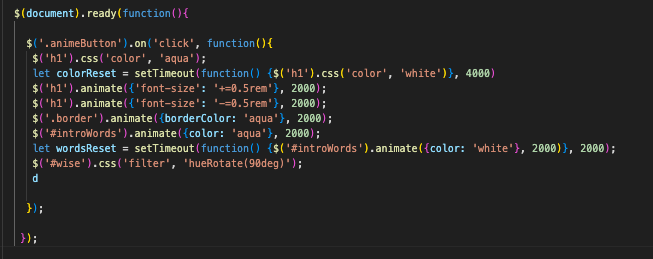
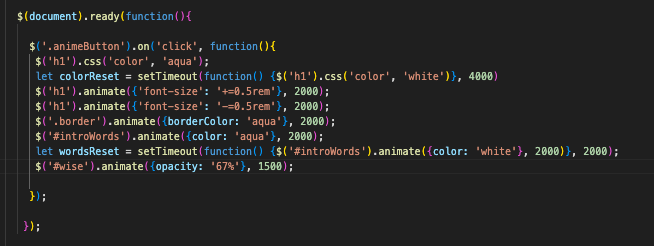
Add files via upload

Changed region(s): [[0.0, 0.0285, 0.9495, 0.9675]]

diff --git a/simpleMobile.html b/simpleMobile.html
@@ -27,9 +27,8 @@
        $('.border').animate({borderColor: 'aqua'}, 2000);
        $('#introWords').animate({color: 'aqua'}, 2000);
        let wordsReset = setTimeout(function() {$('#introWords').animate({color: 'white'}, 2000)}, 2000);
-       $('#wise').css('filter', 'hueRotate(90deg)');
+       $('#wise').animate({opacity: '67%'}, 1500);
        
-      
       });
 
      });
@@ -42,7 +41,10 @@
 
    <header>
       <h1 class="border">HTML / CSS / JQuery</h1>
-      <img src="daFotiJpeg-5-2.jpg" class='border' id='wise' alt="Wise Reflection">
+      <div id="wiseContainer">
+        <img src="daFotiJpeg-5-2.jpg" class='border' id='wise' alt="Wise Reflection">
+      </div>
+      
    </header>
 
    

diff --git a/mobilAppHeader.html b/mobilAppHeader.html
@@ -1,0 +1,13 @@
+<!DOCTYPE html>
+   <html lang="en">
+      <head>
+         <meta charset="utf-8">
+         <title>HTML/CSS JS JQuery</title>
+         <meta name="CIS-128" content="Assignment 2">
+         <meta name="viewport" content="width=device-width, initial-scale=1.0">
+         <link rel="stylesheet" href="">
+      </head> 
+   <body>
+      …content to be displayed in the browser…
+   </body>
+</html>

diff --git a/simple.css b/simple.css
@@ -31,7 +31,6 @@ h1 {
 }
 
 #intro {
-  /* border: 1px solid white; */
   padding: 10px;
 }
 
@@ -50,8 +49,12 @@ img {
   box-shadow: 0px 0px 20px 1px;
 }
 
-#wise {
+div#wiseContainer {
   background-color: aqua;
+}
+
+#wise {
+  opacity: 100%;
 }
 
 #introImage {
